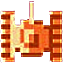
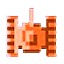
Implement actually first level of battlecity, add iron walls

diff --git a/battlecity/ecs/entity_factory.cpp b/battlecity/ecs/entity_factory.cpp
@@ -4,6 +4,7 @@
 
 static constexpr auto image_tile_empty = "tile_empty";
 static constexpr auto image_tile_wall = "tile_wall";
+static constexpr auto image_tile_iron_wall = "tile_iron_wall";
 static constexpr auto image_player_base = "player_base";
 static constexpr auto image_player_tank = "player_tank";
 static constexpr auto image_enemy_tank = "enemy_tank";
@@ -27,6 +28,7 @@ bool tile_traversible( const tile_type& type )
     {
     case tile_type::empty : traversible = true; break;
     case tile_type::wall : traversible = false; break;
+    case tile_type::iron_wall : traversible = false; break;
     default: throw std::invalid_argument{ "Unimplemented tile type" };
     }
 
@@ -41,6 +43,7 @@ QString tile_image_path( const tile_type& type )
     {
     case tile_type::empty : image_name = image_tile_empty; break;
     case tile_type::wall : image_name = image_tile_wall; break;
+    case tile_type::iron_wall : image_name = image_tile_iron_wall; break;
     default: throw std::invalid_argument{ "Unimplemented tile type" };
     }
 
@@ -94,7 +97,7 @@ ecs::entity& create_entity_player_base( const QRect& rect, uint32_t health, ecs:
     return entity;
 }
 
-ecs::entity& create_entity_tile( const tile_type& type, const QRect& rect, ecs::world& world )
+ecs::entity& create_entity_tile( const tile_type& type, const QRect& rect, uint32_t health, ecs::world& world )
 {
     ecs::entity& entity = world.create_entity();
 
@@ -107,8 +110,7 @@ ecs::entity& create_entity_tile( const tile_type& type, const QRect& rect, ecs::
         if( !tile_traversible( type ) )
         {
             entity.add_component< component::non_traversible >();
-            uint32_t health = 1;
-            entity.add_component< component::health >( health ); // TODO!!!!!!!!
+            entity.add_component< component::health >( health );
         }
     }
     catch( ... )

diff --git a/battlecity/game_settings.cpp b/battlecity/game_settings.cpp
@@ -9,6 +9,8 @@ static constexpr auto tag_tank_size = "TankSize";
 static constexpr auto tag_projectile_size = "ProjectileSize";
 static constexpr auto tag_player_base_size = "PlayerBaseSize";
 static constexpr auto tag_tank_health = "TankHealth";
+static constexpr auto tag_wall_health = "WallHealth";
+static constexpr auto tag_iron_wall_health = "IronWallHealth";
 static constexpr auto tag_player_base_health = "PlayerBaseHealth";
 static constexpr auto tag_player_lives = "PlayerLives";
 static constexpr auto tag_enemies_number = "EnemiesNum";
@@ -81,6 +83,26 @@ void game_settings::set_tank_health( const uint32_t health ) noexcept
 uint32_t game_settings::get_tank_health() const noexcept
 {
     return m_tank_health;
+}
+
+void game_settings::set_wall_health( const uint32_t health ) noexcept
+{
+    m_wall_health = health;
+}
+
+uint32_t game_settings::get_wall_health() const noexcept
+{
+    return m_wall_health;
+}
+
+void game_settings::set_iron_wall_health( const uint32_t health ) noexcept
+{
+    m_iron_wall_health = health;
+}
+
+uint32_t game_settings::get_iron_wall_health() const noexcept
+{
+    return m_iron_wall_health;
 }
 
 void game_settings::set_player_base_health( const uint32_t health ) noexcept
@@ -230,6 +252,14 @@ game_settings read_game_settings( const QString& file )
             else if( name == tag_tank_health )
             {
                 settings.set_tank_health( xml_reader.readElementText().toUInt() );
+            }
+            else if( name == tag_wall_health )
+            {
+                settings.set_wall_health( xml_reader.readElementText().toUInt() );
+            }
+            else if( name == tag_iron_wall_health )
+            {
+                settings.set_iron_wall_health( xml_reader.readElementText().toUInt() );
             }
             else if( name == tag_player_base_health )
             {

diff --git a/battlecity/map_interface.h b/battlecity/map_interface.h
@@ -32,8 +32,8 @@ public:
     void level_ended( const level_game_result& result ) override;
     void game_ended( const level_game_result& result ) override;
 
-    int get_rows_count() const noexcept;
-    int get_columns_count() const noexcept;
+    int get_rows_num() const noexcept;
+    int get_columns_num() const noexcept;
     int get_tile_width() const noexcept;
     int get_tile_height() const noexcept;
     int get_frag_width() const noexcept;
@@ -58,8 +58,8 @@ public:
     Q_PROPERTY( QQmlListProperty< game::movable_map_object > projectiles READ get_projectiles NOTIFY projectiles_changed )
     Q_PROPERTY( QQmlListProperty< game::graphics_map_object > remaining_frags READ get_remaining_frags NOTIFY remaining_frags_changed )
     Q_PROPERTY( QQmlListProperty< game::graphics_map_object > explosions READ get_explosions NOTIFY explosions_changed )
-    Q_PROPERTY( int rows_num READ get_rows_count CONSTANT )
-    Q_PROPERTY( int columns_num READ get_columns_count CONSTANT )
+    Q_PROPERTY( int rows_num READ get_rows_num NOTIFY rows_num_changed )
+    Q_PROPERTY( int columns_num READ get_columns_num  NOTIFY columns_num_changed )
     Q_PROPERTY( int tile_width READ get_tile_width CONSTANT )
     Q_PROPERTY( int tile_height READ get_tile_height CONSTANT )
     Q_PROPERTY( int frag_width READ get_frag_width CONSTANT )
@@ -77,6 +77,8 @@ public:
     void on_event( const event::explosion_started& event ) override;
 
 signals:
+    void rows_num_changed( int );
+    void columns_num_changed( int );
     void tiles_changed( QQmlListProperty< game::graphics_map_object > );
     void player_bases_changed( QQmlListProperty< game::graphics_map_object > );
     void player_tanks_changed( QQmlListProperty< game::tank_map_object > );

diff --git a/battlecity/map_data.cpp b/battlecity/map_data.cpp
@@ -11,6 +11,7 @@
 
 static constexpr auto tile_char_empty = 'e';
 static constexpr auto tile_char_wall = 'w';
+static constexpr auto tile_char_iron_wall = 'i';
 static constexpr auto tile_char_player_base = 'b';
 static constexpr auto tile_char_player_start_position = 'p';
 static constexpr auto tile_char_respawn_point = 'r';
@@ -61,6 +62,10 @@ std::pair< tile_type, object_type > char_to_tile_info( char c )
         break;
     case tile_char_wall :
         ground = tile_type::wall;
+        obj_located_on_ground = object_type::tile;
+        break;
+    case tile_char_iron_wall :
+        ground = tile_type::iron_wall;
         obj_located_on_ground = object_type::tile;
         break;
     case tile_char_player_base :
@@ -130,13 +135,28 @@ add_tank( int row, int col, const alignment& align, const game_settings& setting
     return e;
 }
 
+uint32_t get_tile_health( const tile_type& type, const game_settings& settings )
+{
+    uint32_t health{ 0 };
+
+    switch( type )
+    {
+    case tile_type::wall: health = settings.get_wall_health(); break;
+    case tile_type::iron_wall: health = settings.get_iron_wall_health(); break;
+    default: break;
+    }
+
+    return health;
+}
+
 ecs::entity&
 add_tile( const tile_type& type, int row, int col, const game_settings& settings, ecs::world& world )
 {
     const QSize& tile_size{ settings.get_tile_size() };
     return create_entity_tile( type,
-                        obj_rect( row, col, tile_size, tile_size ),
-                        world );
+                               obj_rect( row, col, tile_size, tile_size ),
+                               get_tile_health( type, settings ),
+                               world );
 }
 
 ecs::entity&

diff --git a/battlecity/map_interface.cpp b/battlecity/map_interface.cpp
@@ -114,14 +114,14 @@ void qml_map_interface::game_ended( const level_game_result& result )
                          true );
 }
 
-int qml_map_interface::get_rows_count() const noexcept
+int qml_map_interface::get_rows_num() const noexcept
 {
-    return m_controller.get_rows_count();
+    return m_controller.get_rows_num();
 }
 
-int qml_map_interface::get_columns_count() const noexcept
+int qml_map_interface::get_columns_num() const noexcept
 {
-    return m_controller.get_columns_count();
+    return m_controller.get_columns_num();
 }
 
 int qml_map_interface::get_tile_width() const noexcept
@@ -377,6 +377,8 @@ void qml_map_interface::remove_object_from_model( const object_type& type, base_
 
 void qml_map_interface::update_all()
 {
+    emit rows_num_changed( get_rows_num() );
+    emit columns_num_changed( get_columns_num() );
     emit tiles_changed( get_tiles() );
     emit player_bases_changed( get_player_bases() );
     emit player_tanks_changed( get_player_tanks() );

diff --git a/battlecity/game_settings.h b/battlecity/game_settings.h
@@ -28,6 +28,12 @@ public:
     void set_tank_health( const uint32_t health ) noexcept;
     uint32_t get_tank_health() const noexcept;
 
+    void set_wall_health( const uint32_t health ) noexcept;
+    uint32_t get_wall_health() const noexcept;
+
+    void set_iron_wall_health( const uint32_t health ) noexcept;
+    uint32_t get_iron_wall_health() const noexcept;
+
     void set_player_base_health( const uint32_t health ) noexcept;
     uint32_t get_player_base_health() const noexcept;
 
@@ -65,6 +71,8 @@ private:
     QSize m_projectile_size{};
     QSize m_player_base_size{};
     uint32_t m_tank_health{ 0 };
+    uint32_t m_wall_health{ 0 };
+    uint32_t m_iron_wall_health{ 0 };
     uint32_t m_base_health{ 0 };
     uint32_t m_player_lives{ 0 };
     uint32_t m_enemies_number{ 0 };

diff --git a/battlecity/ecs/entity_factory.h b/battlecity/ecs/entity_factory.h
@@ -14,7 +14,7 @@ ecs::entity& create_entity_frag( const QRect& rect, ecs::world& world, uint32_t 
 ecs::entity& create_respawn_point_entity( const QRect& rect, ecs::world& world );
 ecs::entity& create_map_entity( const QRect& rect, ecs::world& world );
 ecs::entity& create_entity_player_base( const QRect& rect, uint32_t health, ecs::world& world );
-ecs::entity& create_entity_tile( const tile_type& type, const QRect& rect, ecs::world& world );
+ecs::entity& create_entity_tile( const tile_type& type, const QRect& rect, uint32_t health, ecs::world& world );
 ecs::entity& create_entity_projectile( const QRect& rect,
                                        uint32_t damage,
                                        uint32_t speed,

diff --git a/battlecity/controller.cpp b/battlecity/controller.cpp
@@ -112,12 +112,12 @@ void controller::set_map_mediator( map_data_mediator* mediator ) noexcept
     m_mediator = mediator;
 }
 
-int controller::get_rows_count() const noexcept
+int controller::get_rows_num() const noexcept
 {
     return m_map_data.get_rows_count();
 }
 
-int controller::get_columns_count() const noexcept
+int controller::get_columns_num() const noexcept
 {
     return m_map_data.get_columns_count();
 }

diff --git a/battlecity/controller.h b/battlecity/controller.h
@@ -43,8 +43,8 @@ public:
         m_world.emit_event( event );
     }
 
-    int get_rows_count() const noexcept;
-    int get_columns_count() const noexcept;
+    int get_rows_num() const noexcept;
+    int get_columns_num() const noexcept;
     int get_tile_width() const noexcept;
     int get_tile_height() const noexcept;
     const QString& get_level() const noexcept;

diff --git a/battlecity/ecs/general_enums.h b/battlecity/ecs/general_enums.h
@@ -4,7 +4,7 @@
 namespace game
 {
 
-enum class tile_type{ wall, empty };
+enum class tile_type{ wall, iron_wall, empty };
 enum class alignment{ player, enemy };
 enum class movement_direction{ left, right, up, down, none };
 enum class has_infinite_lifes{ yes, no };
